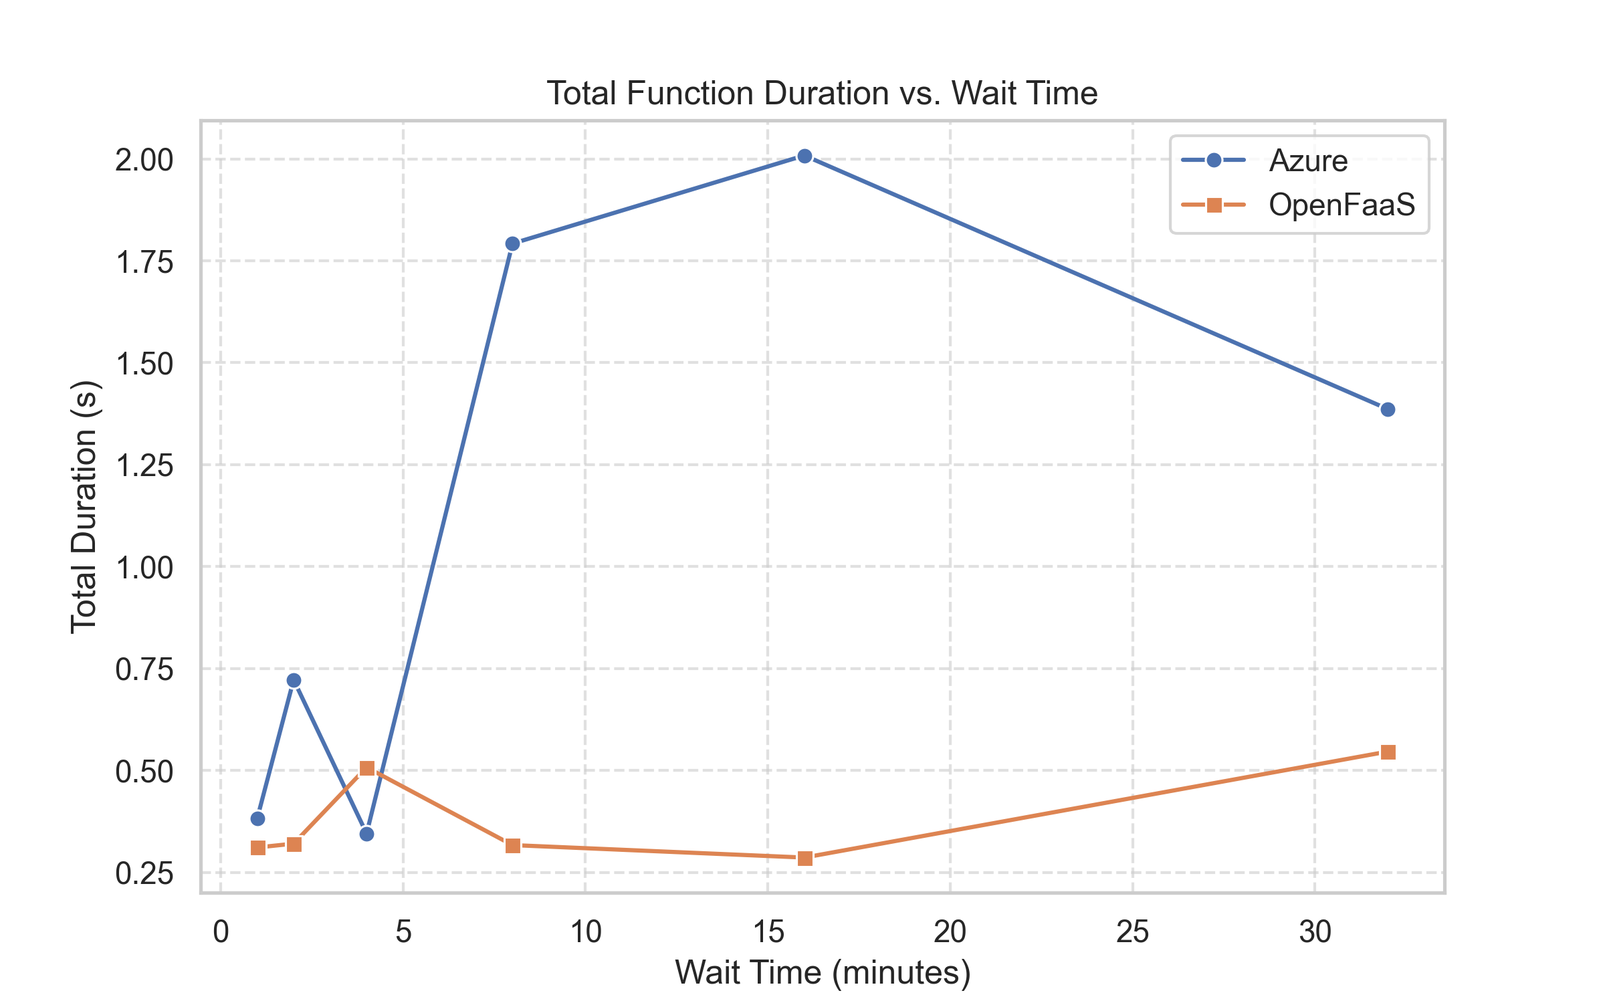
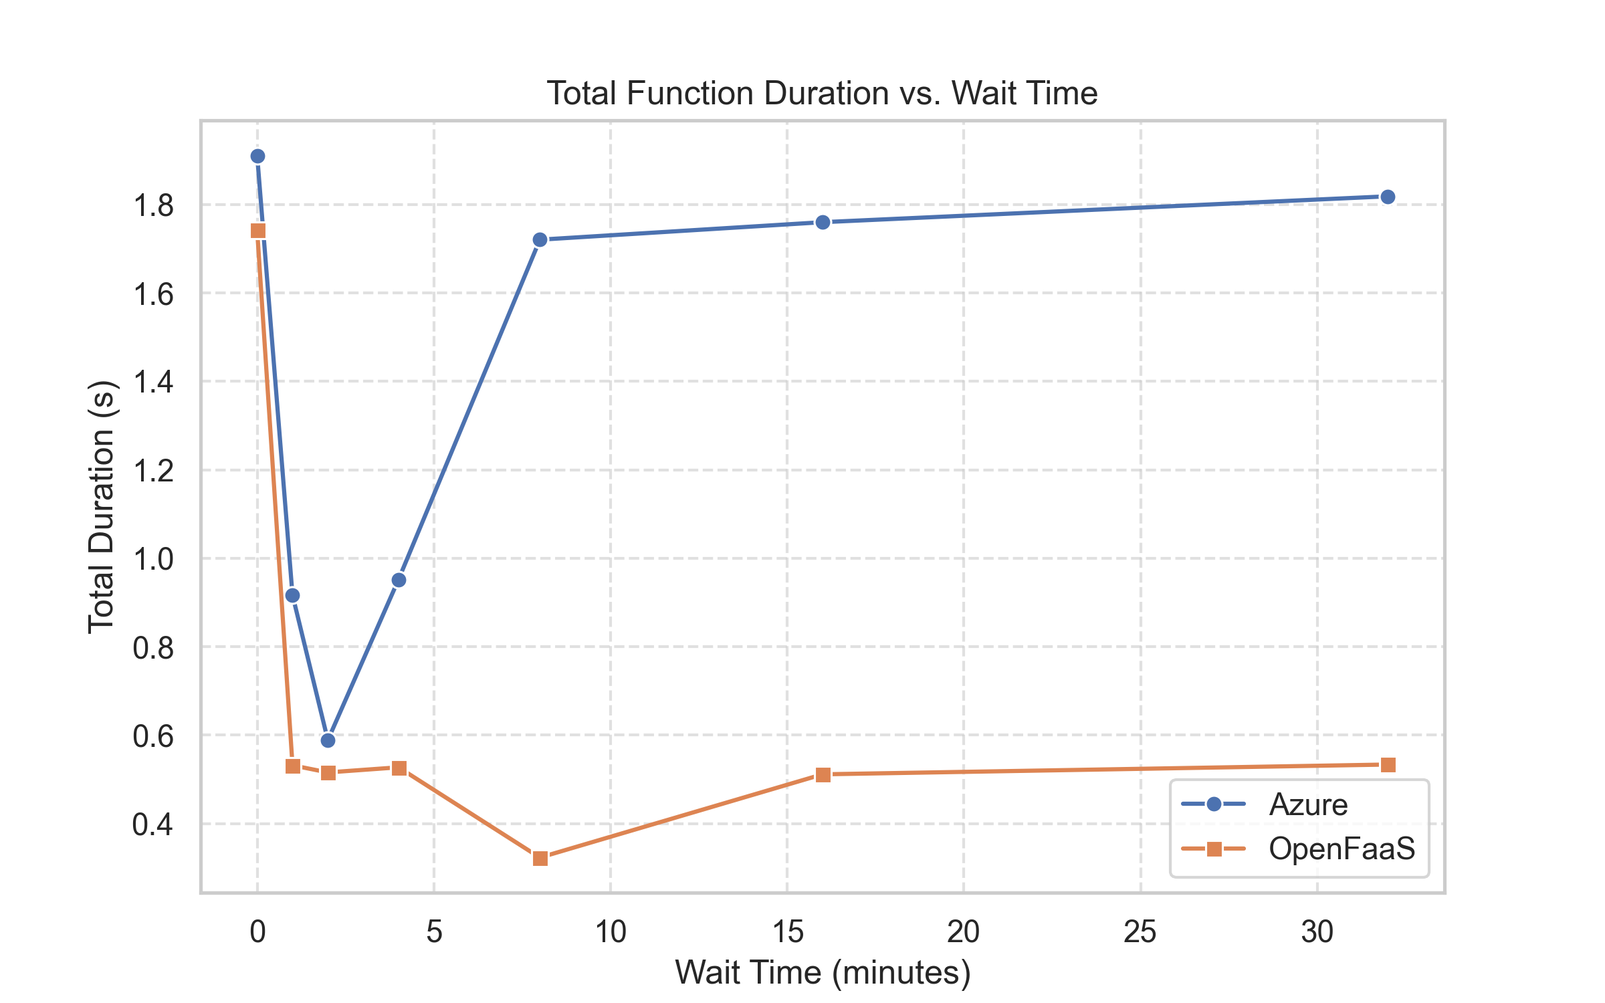
Update README.md

diff --git a/cold_start/plot_cold_start.py b/cold_start/plot_cold_start.py
@@ -3,7 +3,7 @@ import matplotlib.pyplot as plt
 import seaborn as sns
 
 # Load data
-df = pd.read_csv("old_cold_start_times.csv")
+df = pd.read_csv("cold_start_times.csv")
 
 # Convert wait_time to minutes for better readability
 df["wait_time_minutes"] = df["wait_time"] / 60

diff --git a/README.md b/README.md
@@ -15,46 +15,126 @@ This repository contains the code, scripts, and documentation for my COMP5123M C
 
 1) Commercial serverless platform: **Microsoft Azure Functions** 
 
-   Why: Azure Functions offers seamless integration with Azure services, automatic scaling, and a variety of supported languages, making it suitable for cloud-native applications.
+   For my investigation, I chose Azure Functions as my commercial FaaS platform. I have previous experience using Azure Functions for my Distributed Systems coursework last year, which meant that I already had the necessary dependencies installed on my machine. This familiarity helped me get started quickly without spending additional time on setup. Azure Functions is also one of the most commonly evaluated FaaS platform in studies investigating runtime performance on serverless functions (Djemame et. al. 2022).
 
 2) Open-source serverless platform: **OpenFaaS** 
    
-   Why: OpenFaaS provides flexibility in hosting functions on any infrastructure, allowing users to manage their serverless environment while maintaining full control over function execution and scaling.
+   For my investigation, I chose OpenFaas as my open source FaaS platform, as I found the provided tutorial in the labs easy to understand and use. Additionally, I was able to set up the OpenFaaS server on the Azure VM with minimal complications.
 
 3) Programming Language: **Python** 
    
-   Why: Python is widely used in machine learning, data science, and serverless applications due to its simplicity, extensive libraries, and support in cloud platforms like Azure Functions and OpenFaaS.
+   For my investigation, I chose Python as the language runtime. Python is widely used in serverless computing, with well-supported frameworks for Azure Functions and OpenFaaS (Balla et. al. . It is the primary language I use for machine learning and API development, making it a practical choice for implementing my function. I also wanted to implement a machine learning model for my workflow, and I have familiarity with the same in Python with popular AI/ML libraries like TensorFlow and scikit-learn.
 
 4) Application description:
-   TBD
+   My chosen application is a simple image classifier. It uses a MobileNetV2 model from Keras, pretrained on the ImageNet dataset, to process an image classification request. The function takes an image URL as input, downloads it, performs basic pre-processing, and then runs an ML-based classification model. It returns a structured JSON response with the top 3 predicted labels for the image along with their probabilities, and a breakdown of the latency across each type of task (network latency (time to fetch the image), CPU-bound computation time, and ML inference time).
 
 
 ### Q2: Problem Motivation and Related Work
-TBD
+Problem Motivation:
+Cloud computing has transformed access to scalable compute power with its pay-as-you-go model. Serverless computing takes this further by removing the need for developers to manage infrastructure, instead allowing them to deploy code that runs in response to events. This model has gained traction for its ability to scale applications automatically, optimize resource allocation, and reduce operational complexity (Djemame et al.). Platforms like AWS Lambda, Microsoft Azure Functions, and Google Cloud Functions exemplify this approach, where execution is triggered as needed, and costs are based solely on actual usage. By eliminating the overhead of provisioning and maintaining servers, serverless computing streamlines development and enables rapid deployment of applications.
+
+Several factors affect the efficiency and effectiveness of serverless functions, such as cold start latency, execution time, resource constraints, and scaling behavior. Cold start latency occurs when a function has not been invoked for a period of time, requiring the platform to allocate resources before execution can begin. This can introduce delays, particularly for languages like Python, which rely on interpreted runtimes (Jackson & Clynch, 2018). Execution time and throughput are also critical, as they impact cost efficiency and the ability to handle concurrent workloads. While commercial platforms like Azure Functions offer built-in auto-scaling, open-source alternatives like OpenFaaS provide greater control over resource allocation, potentially leading to differences in performance under varying conditions.
+
+This experiment aims to comparatively evaluate the performance of two prominent serverless platforms—Azure Functions (a commercial platform) and OpenFaaS (an open-source platform)—for Python runtimes, using a simple image processing application. The experiment focuses on the capabilities and performance of the Python runtime, comparing metrics such as latency, throughput, and resource usage under varying load conditions.
+
+Related Work:
+To ensure a comprehensive understanding of the topic, my experiment builds on research from prior studies like Djemame et. al. (2022), which evaluate the performance of language runtimes in open source serverless platforms. Djemame, et. al (2022) discusses the concept of the cold-start latency problem, and how existing literature focuses mainly on commercial FaaS platforms such as Microsoft Azure and Amazon Web Services (AWS), with a gap in research on open-source serverless platforms, which is one of Djemame et. al. (2022)’s main research questions. This highlights the importance of my experiment comparing commercial and open-source platforms. 
+
+Jackson and Clynch (2018), cited in Djemame et. al. (2022), studied cold start overheads in different FaaS environments, and found that cold start times vary significantly across different FaaS platforms. In their experiments, they also follows other cited work to identify ideal testing intervals for measuring the cold start latency. Their work highlighted that interpreted languages (like Python) suffer from higher cold start delays compared to other compiled languages. 
+
+Baldini et al. (2017), as cited in Djemame et. al. (2022), explains how an investigation comparing different FaaS platforms is important for developers, as understanding the various merits and demerits of each platform is essential to make the best choice of architectures for an application, and avoid vendor-specific lock in. They also outline various factors of the FaaS model that negatively affect performance of serverless applications, such as the cold-start problem. As cited in Djemame et. al. (2022), they along with Lloyd et. al. (2018) also analyzed the auto-scaling mechanisms of different FaaS providers, noting that commercial platforms like AWS Lambda and Azure Functions offer more robust scaling compared to open-source solutions.
+
+Balla et. al (2020) in their paper “Open source faas performance aspects” discuss popularity of Python on serverless platforms, and the OpenFaaS architecture including it’s scale-to-zero functionality. Their experimental design using OpenFaaS’s built-in auto-scaling feature and load testing configurations were useful for me to implement my own experimental design.
+
+Ataie et. al. (2025) also performed similar experiments with similar configurations to Balla et. al. (2020), but disabled autoscaling for their OpenFaaS functions. Their results concluded that Python is the best language runtime for the OpenFaaS open source serverless platform.
+
+These studies provide useful insights into the current research in runtime performance for serverless environments, providing context for my work, as I aim to compare cold start behavior, runtime performance, and scaling behavior between Azure Functions and OpenFaaS when executing an ML workload. By extending their work, I aim to investigate the runtime performance of Python on both commercial and open-source platforms, offering insights into the trade-offs between these two platforms.
+
+References:
+1.	Djemame, K., Datsev, D., & Kelefouras, V. (2022). Evaluation of language runtimes in open-source serverless platforms. Proceedings of the 12th International Conference on Cloud Computing and Services Science, 123-132. Available from: https://eprints.whiterose.ac.uk/186083/
+2.	Baldini, I., Castro, P., Chang, K., Cheng, P., Fink, S., Ishakian, V., Mitchell, N., Muthusamy, V., Rabbah, R., Slominski, A., and Suter, P. (2017). Serverless computing: Current trends and open problems. CoRR,abs/1706.03178.
+3.	Lloyd, W., Ramesh, S., Chinthalapati, S., Ly, L., and Pallickara, S. (2018). Serverless computing: An investigation of factors influencing microservice performance. In 2018 IEEE International Conference on Cloud Engineering (IC2E), pages 159–169.
+4.	Azure (2021). Azure functions. https://docs.microsoft.com/en-us/azure/azurefunctions/.
+5.	OpenFaaS (2021). Openfaas - serverless functions, made simple. https://openfaas.com/.
+6.	Jackson, D. and Clynch, G. (2018). An investigation of the impact of language runtime on the performance and cost of serverless functions. In 2018 IEEE/ACM International Conference on Utility and Cloud Computing Companion, pages 154–160.
+7.	Ataie, E., Pooshani, M. and Aqasizade, H., An Empirical Study on the Impact of Programming Languages on the Performance of Open-source Serverless Platforms.
+8.	Balla, D., Maliosz, M. and Simon, C., 2020, July. Open source faas performance aspects. In 2020 43rd International Conference on Telecommunications and Signal Processing (TSP) (pp. 358-364). IEEE.
 
 ### Q3: Experimental Design and Implementation - Commercial
-TBD
+Function Design: 
+My Azure Functions app vin-image-processing-workflow deploys an HTTP-triggered Azure Function process-image, written in Python with the v2 programming model. The function uses a pre-trained Keras MobileNetV2 model to classify images provided the image URL, and returns the top 3 classes predicted.  The function was first developed and tested locally using VSCode before being deployed on the Azure cloud under the Consumption Plan. I used Python 3.11.9 to maintain compatibility with Azure’s runtime. 
+
+To evaluate the function’s scalability and performance, I conducted load testing using Locust, simulating concurrent users and measuring throughput, latency, and failure rates under different load conditions.
+
+To analyze the function's cold start performance, I wrote a custom Python script (measure_cold_start.py) that implements an exponential backoff strategy. This script invokes the function at increasing intervals to determine the delay introduced when the function instance is not pre-warmed. Additionally, I developed another script to analyze how input image size impacts latency, breaking down response times into network delay, CPU processing, and ML inference time.
+
+For testing, I made use of the Lorem Picsum API to serve random images of a consistent size, ensuring consistency in input size and an easy way to source images. This ensured that input variability did not affect performance results.
+
+Experiment Implementation: 
+Load Testing: Once the function was deployed on the Azure cloud and ready to be tested, to evaluate the function’s scalability and performance, I conducted load testing using Locust, simulating concurrent users and measuring throughput, latency, and failure rates under different load conditions. I did a number of experiments with various numbers of total users and concurrent requests to evaluate average response times, throughput, and failure rates. First, a single user test o establish a baseline for function performance under minimal load, then 100 concurrent users (2 spawn rate) where users were added gradually to observe how the function scales under a steady increase in load, and 100 concurrent users (10 spawn rate) where users were added rapidly, testing Azure’s ability to handle sudden traffic spikes. The reports generated by Locust for the same are in azure_report_1users_spawn1.html, azure_report_100users_spawn2.html and azure_report_100users_spawn10.html respectively.
+
+Cold Start Analysis: To analyze the function's cold start performance, I wrote a custom Python script (measure_cold_start.py) that implements an exponential backoff strategy. This script invokes the function at increasing intervals to determine the delay introduced when the function instance is not pre-warmed. Using the measure_cold_start.py script, I triggered the function after exponentially increasing idle periods (e.g., 1 min, 2 min, 4 min, etc.) to identify the minimum wait time required for a cold start, upto a maximum idle period of 32 minutes. The results of the same are in the Results section. 
+
+Latency Breakdown: Additionally, I developed another script to analyze how input image size impacts latency, breaking down response times into network delay, CPU processing, and ML inference time. Varying the input size, I used the JSON metrics returned by my function to analyze the relative contributions of network, CPU processing, and ML inference time to the overall latency, and how this varies with input size. The results of the same are saved in latency_breakdown_results.csv and are in the Results section. 
 
 ### Q4: Experimental Design and Implementation - Open Source
-TBD 
+Function Design: 
+My Azure Functions app vin-image-processing-workflow deploys an HTTP-triggered Azure Function process-image, written in Python with the v2 programming model. The function uses a pre-trained Keras MobileNetV2 model to classify images provided the image URL, and returns the top 3 classes predicted.  The function was first developed and tested locally using VSCode before being deployed on the Azure cloud under the Consumption Plan. I used Python 3.11.9 to maintain compatibility with Azure’s runtime. 
+
+To evaluate the function’s scalability and performance, I conducted load testing using Locust, simulating concurrent users and measuring throughput, latency, and failure rates under different load conditions.
+
+To analyze the function's cold start performance, I wrote a custom Python script (measure_cold_start.py) that implements an exponential backoff strategy. This script invokes the function at increasing intervals to determine the delay introduced when the function instance is not pre-warmed. Additionally, I developed another script to analyze how input image size impacts latency, breaking down response times into network delay, CPU processing, and ML inference time.
+
+For testing, I made use of the Lorem Picsum API to serve random images of a consistent size, ensuring consistency in input size and an easy way to source images. This ensured that input variability did not affect performance results.
+
+Experiment Implementation: 
+Load Testing: Once the function was deployed on my OpenFaaS faasd on my Azure VM, and ready to be tested, to evaluate the function’s scalability and performance, I conducted load testing using Locust, simulating concurrent users and measuring throughput, latency, and failure rates under different load conditions. I did a number of experiments with various numbers of total users and concurrent requests to evaluate average response times, throughput, and failure rates. First, a single user test o establish a baseline for function performance under minimal load, then 100 concurrent users (2 spawn rate) where users were added gradually to observe how the function scales under a steady increase in load, and 100 concurrent users (10 spawn rate) where users were added rapidly, testing OpenFaaS’s ability to handle sudden traffic spikes. The reports generated by Locust for the same are in openfaas_report_1users_spawn1.html, openfaas_report_100users_spawn2.html and openfaas_report_100users_spawn10.html respectively.
+
+Cold Start Analysis: To analyze the function's cold start performance, I wrote a custom Python script (measure_cold_start.py) that implements an exponential backoff strategy. This script invokes the function at increasing intervals to determine the delay introduced when the function instance is not pre-warmed. Using the measure_cold_start.py script, I triggered the function after exponentially increasing idle periods (e.g., 1 min, 2 min, 4 min, etc.) to identify the minimum wait time required for a cold start, upto a maximum idle period of 32 minutes. The results of the same are in the Results section. 
+
+Latency Breakdown: Additionally, I developed another script to analyze how input image size impacts latency, breaking down response times into network delay, CPU processing, and ML inference time. Varying the input size, I used the JSON metrics returned by my function to analyze the relative contributions of network, CPU processing, and ML inference time to the overall latency, and how this varies with input size. The results of the same are saved in latency_breakdown_results.csv and are in the Results section.
 
 ### Q5: Results and Evaluation
-TBD
+Load Testing results: 
+Key metrics analyzed include average response time, request failures, and requests per second (RPS) across three test scenarios: 1 user (1 spawn), 100 users (2 spawns), and 100 users (10 spawns).
+
+- Azure Performance:
+o	1 User, 1 Spawn: Avg Response Time: 589.73ms, Min / Max Response Time: 214ms / 19,066ms, Total Requests: 83, Failures: 0, Requests per Second (RPS): 0.28. Azure handled a single request well, though the maximum response time peaked significantly at 19s, indicating occasional outliers in performance.
+
+o	100 Users, 2 Spawns: Avg Response Time: 542.39ms, Min / Max Response Time: 176ms / 22,220ms, Total Requests: 7,747, Failures: 1, RPS: 25.87. Despite a higher load, Azure maintained an average response time under 600ms, with only one request failure. However, the maximum latency increased significantly to 22s, suggesting that under peak load, some requests experience much longer delays.
+
+o	100 Users, 10 Spawns: Avg Response Time: 777.8ms, Min / Max Response Time: 172ms / 27,851ms, Total Requests: 7,866, Failures: 0, RPS: 26.27. The average response time increased by ~43% (from 542.39ms to 777.8ms) with more concurrent users, showing the effect of scaling constraints. The maximum response time peaked at 27.8s, further indicating that Azure experiences significant latency spikes under high load.
+
+- OpenFaaS Performance
+o	1 User, 1 Spawn: Avg Response Time: 335.31ms, Min / Max Response Time: 234ms / 443ms, Total Requests: 89, Failures: 0, RPS: 0.3. OpenFaaS outperformed Azure in this test, achieving an average response time ~43% lower than Azure (335ms vs. 590ms) and a significantly lower max response time (443ms vs. 19s on Azure).
+
+o	100 Users, 2 Spawns: Avg Response Time: 7,298.74ms, Min / Max Response Time: 256ms / 12,951ms, Total Requests: 2,635, Failures: 0, RPS: 8.8. OpenFaaS struggled significantly with higher concurrency, with average latency increasing to 7.3s (compared to 542ms on Azure). This suggests that the platform experiences delays in function execution under load.
+
+o	100 Users, 10 Spawns: Avg Response Time: 7,527.85ms, Min / Max Response Time: 490ms / 9,939ms, Total Requests: 2,761, Failures: 0, RPS: 9.22. The response times remained consistently high (~7.5s), with minimal improvement despite a higher request rate. The maximum response time slightly decreased compared to the 100-user, 2-spawn test, but overall performance remained significantly slower than Azure under high loads.
+
+Therefore the results conclude that OpenFaaS consistently outperformed Azure in single-user scenarios, with a 43% lower average response time and a significantly lower max response time. On the other hand, Azure scaled better, with response times increasing from ~540ms to ~770ms under high load, while OpenFaaS struggled significantly, reaching 7.3–7.5s response times, making it ~10x slower than Azure at high concurrency. Neither platform had significant failures, indicating good reliability. However, Azure had one failure at 100 users, 2 spawns, while OpenFaaS had zero failures throughout.
+
+•	Cold Start results: 
+Cold start times varied significantly between the commercial platform (Azure) and the open-source OpenFaaS (faasd) environment. The results indicate that OpenFaaS consistently exhibited very minute, if any, cold start delays, while Azure experienced a clear, large spikes in latency due to cold start. At the initial call (cold state), Azure had a total duration of 18.53s, while OpenFaaS completed in 1.79s. When next called after 1 minutes, Azure’s overall execution duration dropped significantly to 1.07s, whereas OpenFaaS performed even faster at 0.57s, demonstrating they are both still warm from the previous call. 
+
+As wait time between calls increased to 2-4 minutes, both platforms stabilized, with OpenFaaS maintaining an average total duration of 0.57s compared to Azure’s fluctuating durations (ranging from 0.72s to 1.14s). When called after 8 minutes, Azure experienced a cold start spike, reaching 19.5s, while OpenFaaS maintained a near-instantaneous response of 0.37s. Therefore, the time after which a function is not kept warm in Azure is between 4-8 minutes. 
+
+Beyond 8 minutes, for calls after 16-32 minutes Azure cold started every time, and execution time ranged between 19–22s, while OpenFaaS remained under 0.6s, highlighting its superior ability to keep functions readily available. These results suggest that OpenFaaS (faasd) mitigates cold starts more effectively than Azure, likely due to differences in containerization and resource allocation strategies.
+
+•	Latency Breakdown results: 
+The overall latency, network duration and CPU duration increase with image size for both Azure and OpenFaaS, and this is clearer in the attached graphs as well (overall_duration_vs_image_size.png, network_duration_vs_image_size.png, cpu_duration_vs_image_size.png). Azure Functions has better CPU duration and is roughly similar to OpenFaaS on the network and overall durations. The ML duration tends to vary irregularly, but this also could be due to the actual image and how similar it is to the ImageNet dataset the model was trained on and so is not reliably a function of input size alone. 
+
+For small image sizes (256x256 to 1024x1024), OpenFaaS consistently outperformed Azure in overall duration, processing images ~30–50% faster. For medium image sizes (1280x1280 to 1920x1920), both platforms demonstrated increased latency, with OpenFaaS still maintaining a lower overall duration. For 1920x1920, OpenFaaS had a higher latency spike (0.97s) compared to Azure (0.20s), which may indicate bottlenecks at this resolution. For images up to 2560x2560, OpenFaaS remained faster, but the performance gap narrowed. At 2880x2880, both platforms performed similarly (1.42s on Azure, 1.47s on OpenFaaS). At 3200x3200, OpenFaaS had a slightly higher total latency (1.67s vs. 1.56s on Azure).
+
+These results suggest that OpenFaaS maintains a performance advantage in small to medium workloads but experiences increased overhead at larger image sizes. This could be attributed to resource constraints or differences in how the platforms allocate compute power for function execution.
+
+This experiment provides insights into the performance characteristics of Azure Functions and OpenFaaS under varying loads and provide a deeper understanding of the performance trade-offs between commercial and open-source serverless platforms. By focusing on a single language runtime (Python) and common functionality in the functions, the experiment allows for a focused and fair comparison, ensuring that any differences in performance are attributed to the platforms rather than the language or application itself. 
 
 ### Q6: Code/Scripts
 
-Link to Git Repository: [GitHub Repository](https://github.com/yourusername/serverless-functions)
+Link to Git Repository: [GitHub Repository](https://github.com/Vindhyaa-Saravanan/CloudComputingCoursework2)
 
 ### Q7: Demo Video [Demo Video](https://youtube.com/yourdemo)  
 A short video demonstrating the deployment process, function execution, and performance results.
 
-## **Getting Started**
-
-1. First clone this repository:  
-
-```bash
-git clone https://github.com/Vindhyaa-Saravanan/CloudComputingCoursework2.git
-```
-
-2. TBD
 
